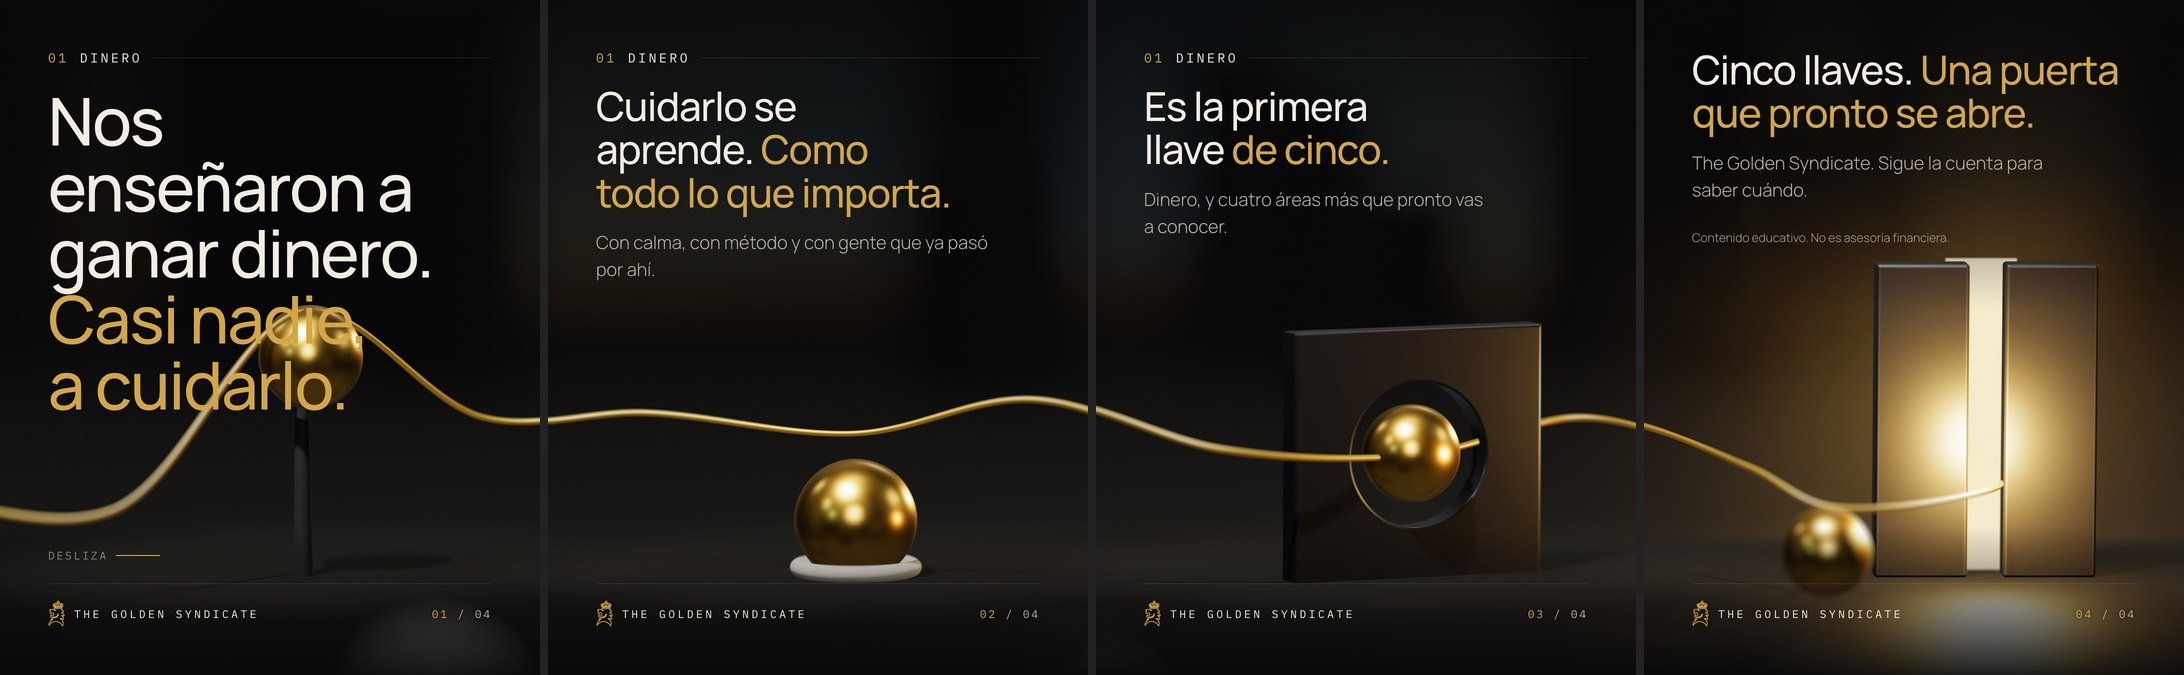
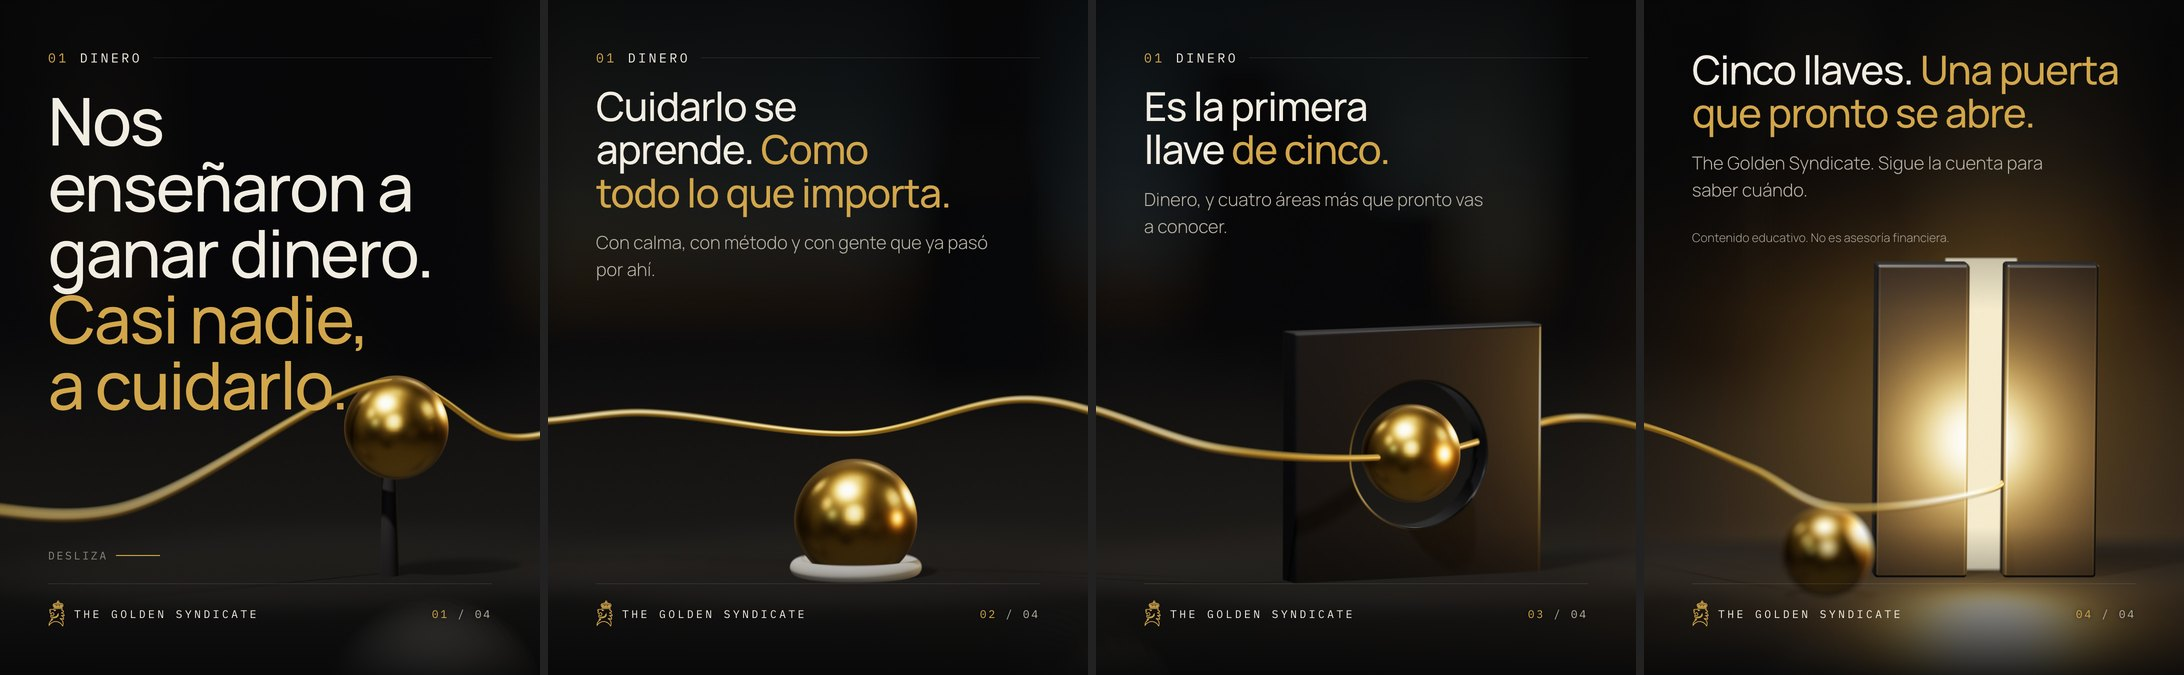
La esfera de la portada ya no choca con el titular

Changed region(s): [[0.0, 0.4356, 0.2491, 0.7778]]

diff --git a/marca/sistema-diseno/escenas/dinero-expectativa-b.html b/marca/sistema-diseno/escenas/dinero-expectativa-b.html
@@ -11,7 +11,7 @@ import { crearMundo, THREE } from './mundo.js';
 const M = crearMundo({ teselas: 4, semilla: 20260925 });
 const { cx, mat, malla, esfera, caja, cil, hilo, fijar, halo, scene } = M; const PI = Math.PI;
 const espejo = new THREE.MeshPhysicalMaterial({ color: 0x2b2b31, roughness: 0.05, metalness: 0.2, clearcoat: 1, clearcoatRoughness: 0.03, reflectivity: 1 });
-/* 0 · frágil: la esfera en equilibrio sobre una columna delgada */ { const x = cx(0) + 0.4; cil(0.09, 0.12, 2.2, mat.piedra, x, 1.1, 0); esfera(0.66, mat.oro, x + 0.12, 2.2 + 0.6, 0.05); }
+/* 0 · frágil: la esfera en equilibrio sobre una columna delgada */ { const x = cx(0) + 1.5; cil(0.09, 0.12, 1.3, mat.piedra, x, 0.65, 0); esfera(0.66, mat.oro, x + 0.1, 1.3 + 0.6, 0.05); }
 /* 1 · aprendido: la misma esfera asentada en un aro que la sostiene */ { const x = cx(1) + 0.4; const a = malla(new THREE.TorusGeometry(0.62, 0.09, 24, 96), mat.hueso, x, 0.09, 0); a.rotation.x = PI / 2; esfera(0.66, mat.oro, x, 0.6, 0); }
 /* 2 */ { const x = cx(2) + 0.5; const f = new THREE.Shape(); f.moveTo(-1.6, 0); f.lineTo(1.6, 0); f.lineTo(1.6, 3.0); f.lineTo(-1.6, 3.0); f.closePath(); const h = new THREE.Path(); h.absarc(0, 1.5, 0.92, 0, PI * 2, true); f.holes.push(h);
   const g = new THREE.ExtrudeGeometry(f, { depth: 0.36, bevelEnabled: true, bevelSize: 0.03, bevelThickness: 0.03, bevelSegments: 3, curveSegments: 96 }); const losa = malla(g, mat.grafito, x, 0, -0.18); losa.rotation.y = 0.38; esfera(0.6, mat.oro, x + 0.05, 1.5, 0.02); }
@@ -19,7 +19,7 @@ const espejo = new THREE.MeshPhysicalMaterial({ color: 0x2b2b31, roughness: 0.05
   const luz = new THREE.Mesh(new THREE.PlaneGeometry(hueco + 0.5, alto), new THREE.MeshBasicMaterial({ color: new THREE.Color(2.1, 1.32, 0.42), fog: false })); luz.position.set(x, alto / 2, -0.7); scene.add(luz);
   const p = new THREE.PointLight(0xE7B45A, 260, 22, 2); p.position.set(x, 1.8, 1.4); scene.add(p); halo('rgba(200,140,55,1)', x, 2.2, -4, 14, 0.5);
   fijar(esfera(0.62, mat.oro, x - 2.4, 0.62, 2.4)); }
-hilo([[cx(0) - 4.5, 1.4, 3], [cx(0) - 1.8, 1.1, 2.4], [cx(0) + 0.5, 3.4, 0.2], [cx(0) + 2.8, 2.0, -0.6],
+hilo([[cx(0) - 4.5, 1.4, 3], [cx(0) - 1.8, 1.1, 2.4], [cx(0) + 1.6, 2.5, 0.2], [cx(0) + 3.2, 1.8, -0.6],
   [cx(1) - 2.0, 1.7, -0.6], [cx(1) + 0.4, 1.55, 0.1], [cx(1) + 2.6, 2.0, 0.8],
   [cx(2) - 1.8, 1.7, 1.4], [cx(2) + 0.65, 1.5, 0.15], [cx(2) + 2.9, 1.9, -1.0],
   [cx(3) - 2.4, 1.7, 1.6], [cx(3) - 1.4, 1.25, 2.4], [cx(3) + 1.0, 1.3, 0.8], [cx(3) + 1.0, 1.3, -7]]);
